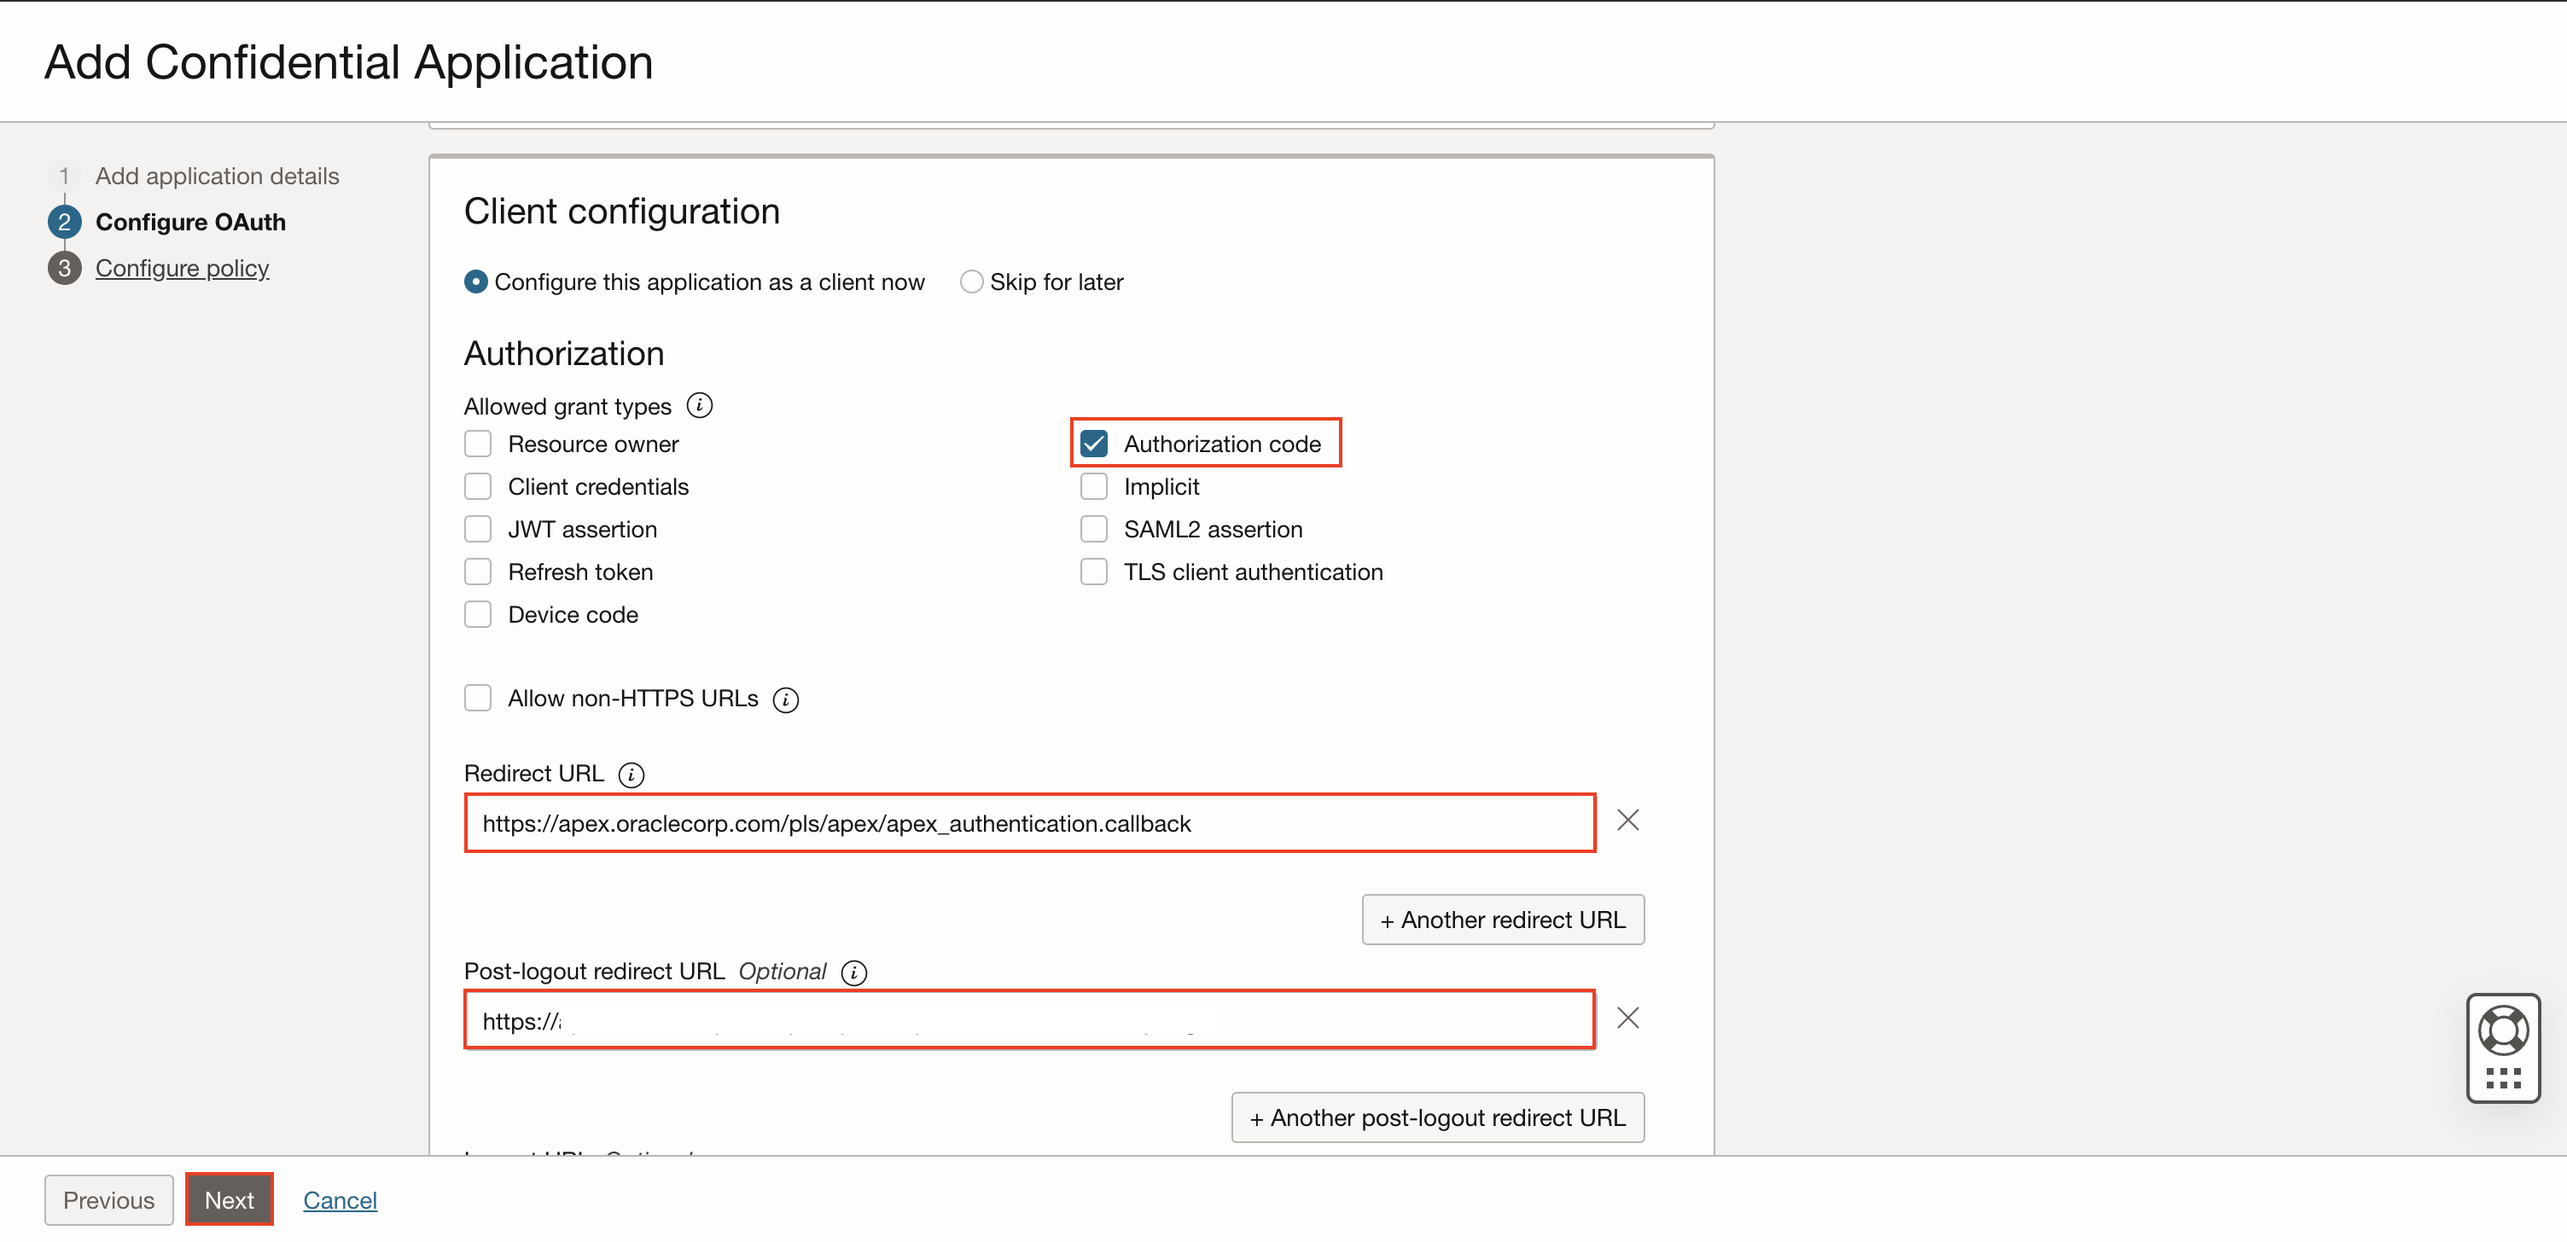
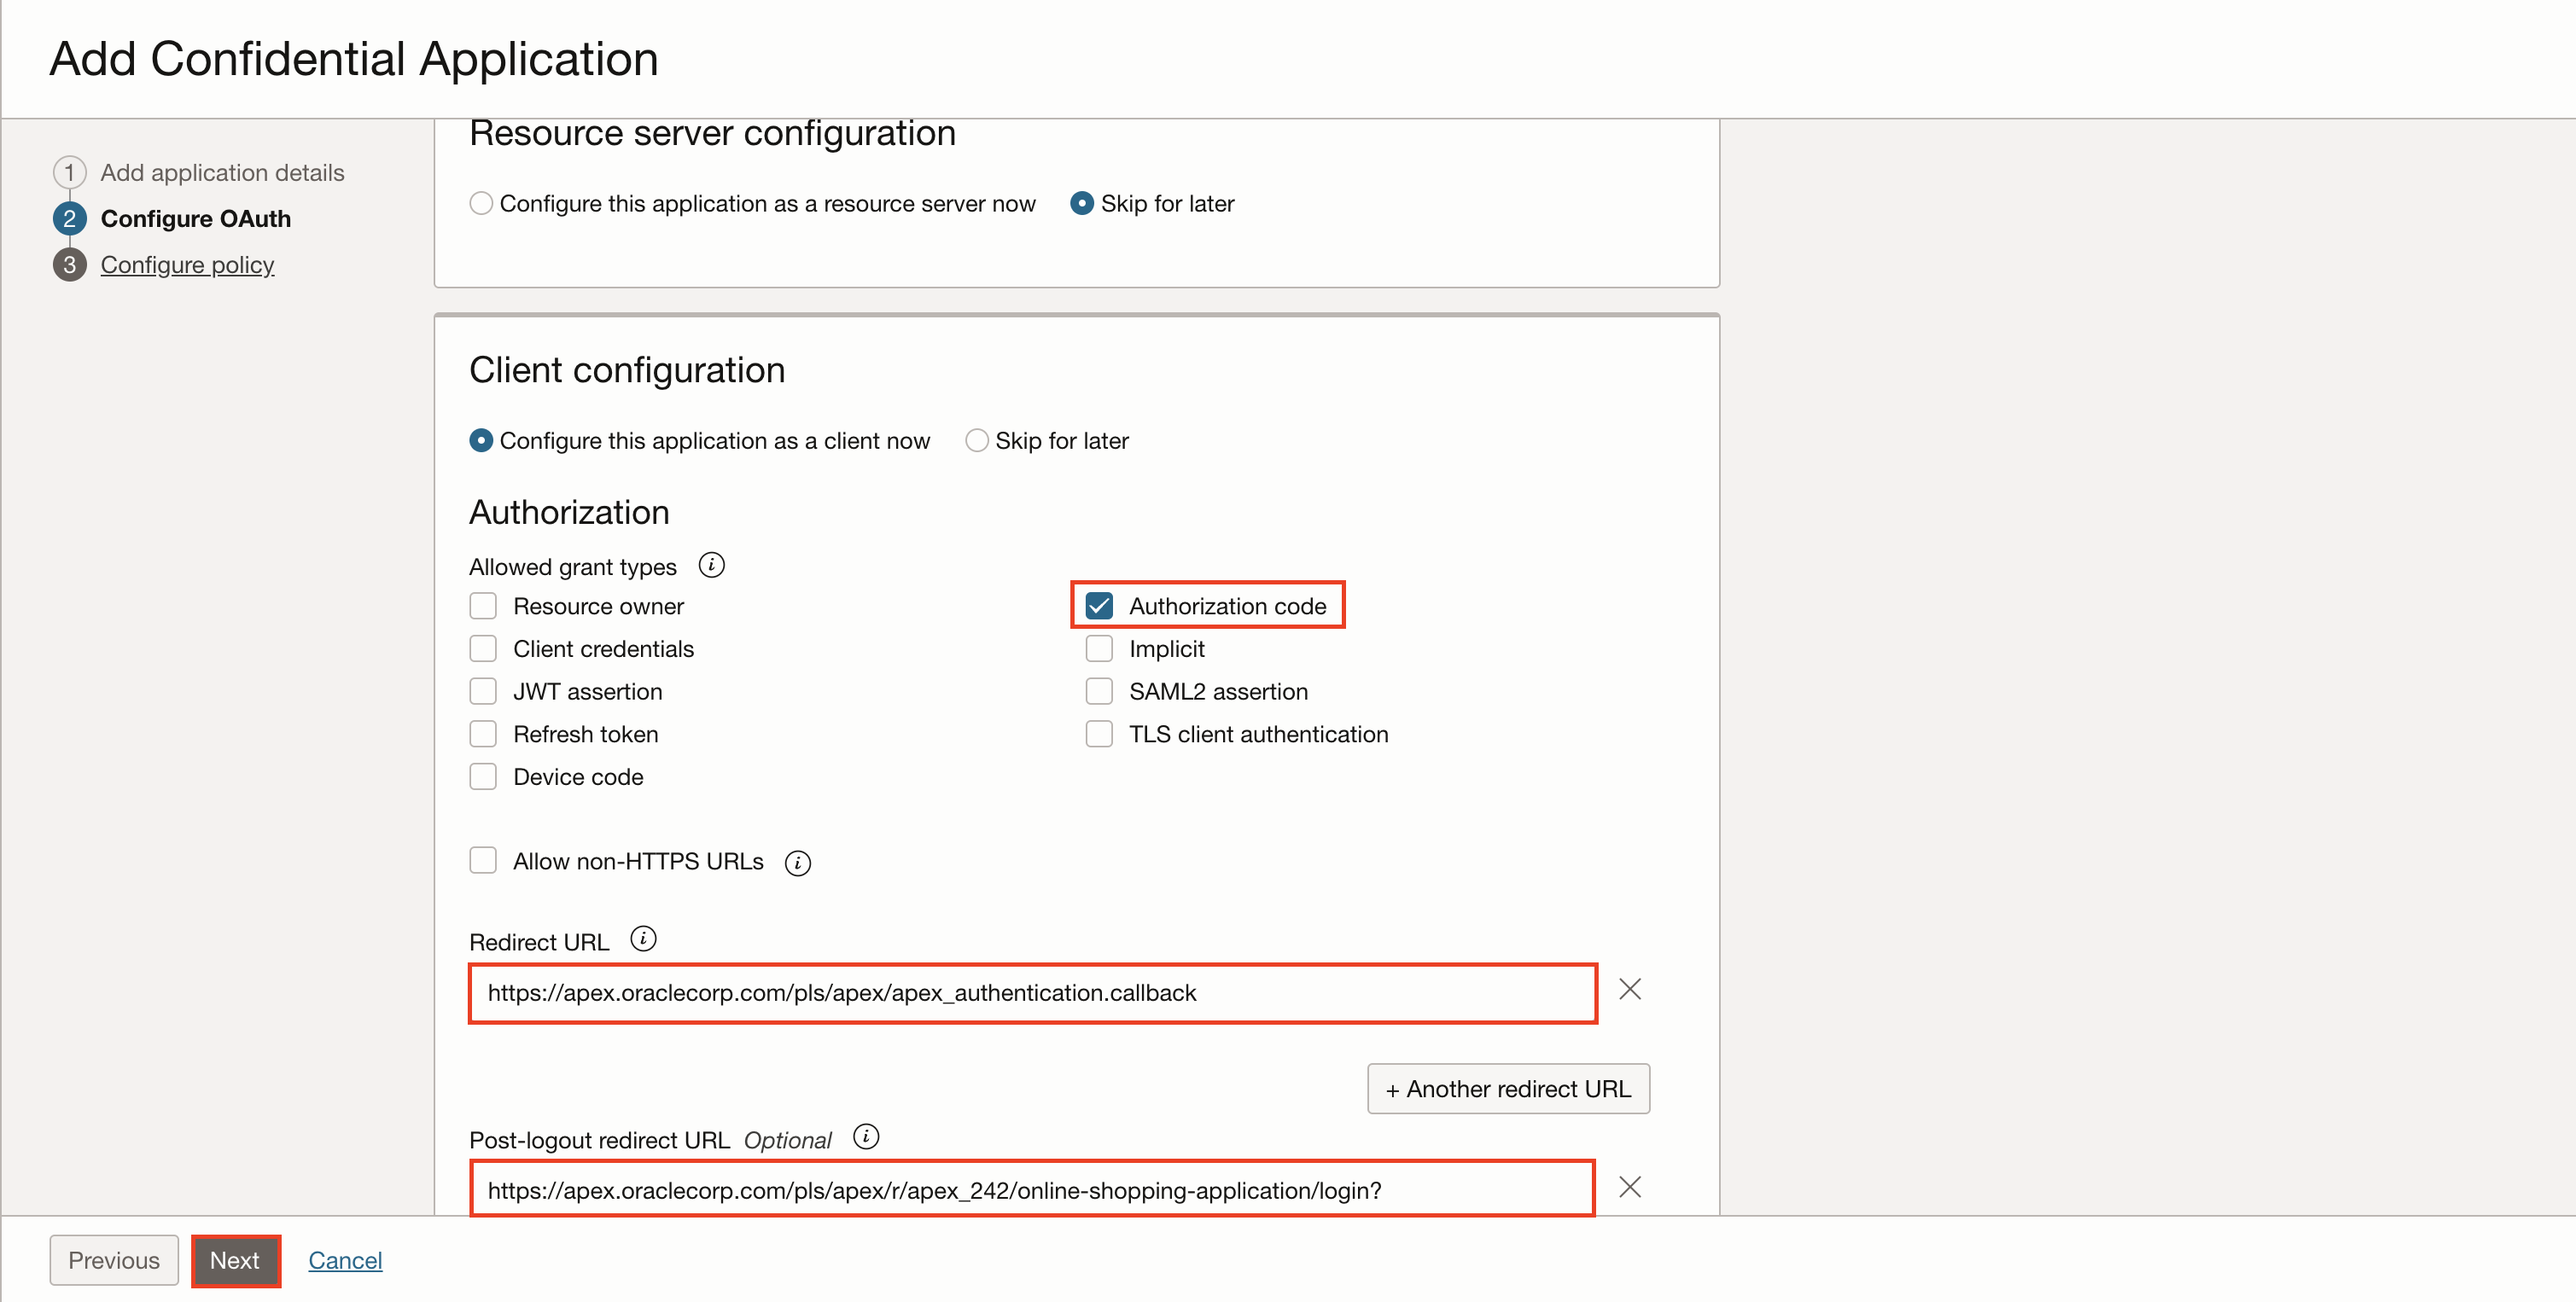
hol17

diff --git a/apex-professional-hol17/implementing-security-inapp.md b/apex-professional-hol17/implementing-security-inapp.md
@@ -36,51 +36,53 @@ Estimated Time: 20 minutes
 
     ![Define Authentication](images/select-confidential.png " ")
 
-7. Enter a **Name** for your application and click **Next**.
+7. Enter a **Name** for your application.
 
     ![Define Authentication](images/click-next.png " ")
 
-8. Select **Authorization code** as the **Allowed Grant Type** and click **Next**.
+8. Under **Authentication and authorization** , enable **Enforce grants as authorization** and click **Next**.
 
-9. For **Redirect URL**, enter: **https://apex.oracle.com/pls/apex/apex_authentication.callback**
+     [Define Authentication](images/click-next1.png " ")
 
-10. For **Post-logout redirect URL**, enter: **https://apex.oracle.com/pls/apex/r/<workspace_name>/<application name>/login**
+9. Under **Client configuration**, enter/select the following:
 
-11. Click **Next**.
+    - Under Authorization:
+
+        - Allowed grant types: Enable **Authorization code** (This will be used later to control access to the Oracle APEX application)
+
+        - Redirect URL**: **https://apex.oracle.com/pls/apex/apex_authentication.callback**
+
+        - Post-logout redirect URL: **https://apex.oracle.com/pls/apex/r/<workspace_name>/<application name>/login**
+
+    Click **Next**.
 
     ![Define Authentication](images/confidential-details.png " ")
 
-12. Under **Configure policy**, leave as default and click **Finish**.
+10. Under **Configure policy**, leave as default and click **Finish**.
 
     ![Define Authentication](images/add-confidential.png " ")
 
-13. Click **Edit application** and select **Enforce grant as Authorization** under **Authentication and Authorization** (This will be used later to control access to the Oracle APEX application).
-
-    ![Define Authentication](images/edit-app.png " ")
-
-    ![Define Authentication](images/enforce-grants.png " ")
-
-14. Click **Activate** and **Activate application**.
+11. Click **Activate** and **Activate application**.
 
     ![Define Authentication](images/click-activate.png " ")
 
     ![Define Authentication](images/activate-app.png " ")
 
-15. Copy the *Client ID* and *Client secret* which we will use in the configuration on Oracle APEX.
+12. Copy the *Client ID* and *Client secret* which we will use in the configuration on Oracle APEX.
 
     ![Define Authentication](images/copy-clientid.png " ")
 
-16. Now, log in to your Oracle APEX workspace and navigate to **Workspace Utilities**.
+13. Now, log in to your Oracle APEX workspace and navigate to **Workspace Utilities**.
 
-17. Select **Web Credentials**.
+14. Select **Web Credentials**.
 
     ![Define Authentication](images/select-web-creds.png " ")
 
-18. Under **Web Credentials**, click **Create**.
+15. Under **Web Credentials**, click **Create**.
 
     ![Define Authentication](images/create-web-creds.png " ")
 
-19. Enter/select the following information:
+16. Enter/select the following information:
 
     - Name: **OCI IAM Credentials**
 
@@ -96,33 +98,33 @@ Estimated Time: 20 minutes
 
     ![Define Authentication](images/iam-creds.png " ")
 
-20. Assign a user to this application. Navigate back to your Oracle cloud console, select **Users** and click **Assign users**.
+17. Assign a user to this application. Navigate back to your Oracle cloud console, select **Users** and click **Assign users**.
 
     ![Define Authentication](images/add-users.png " ")
 
     ![Define Authentication](images/assign-users.png " ")
 
-21. Also, under **Groups**, assign the group to the user you created.
+18. Also, under **Groups**, assign the group to the user you created.
 
-22. Add a user *First name, Last name and Email* and click **Assign**.
+19. Add a user *First name, Last name and Email* and click **Assign**.
 
     ![Define Authentication](images/assign-groups.png " ")
 
-23. Log in to your Oracle APEX workspace and select **Online Shopping Application**.
+20. Log in to your Oracle APEX workspace and select **Online Shopping Application**.
 
-24. Click **Shared Components**. Under Security, click **Authentication Schemes**.
+21. Click **Shared Components**. Under Security, click **Authentication Schemes**.
 
     ![Define Authentication](images/shared-comp-auth.png " ")
 
     ![Define Authentication](images/select-auth-scheme.png " ")
 
-25. Click **Create**.
+22. Click **Create**.
 
     ![Define Authentication](images/create-auth.png " ")
 
-26. Enter/select the following information:
+23. Enter/select the following information:
 
-    - Name: **OCI IAM Authentication Scheme**
+    - Name: **IAM**
 
     - Scheme Type: **Social Sign-In**
 
